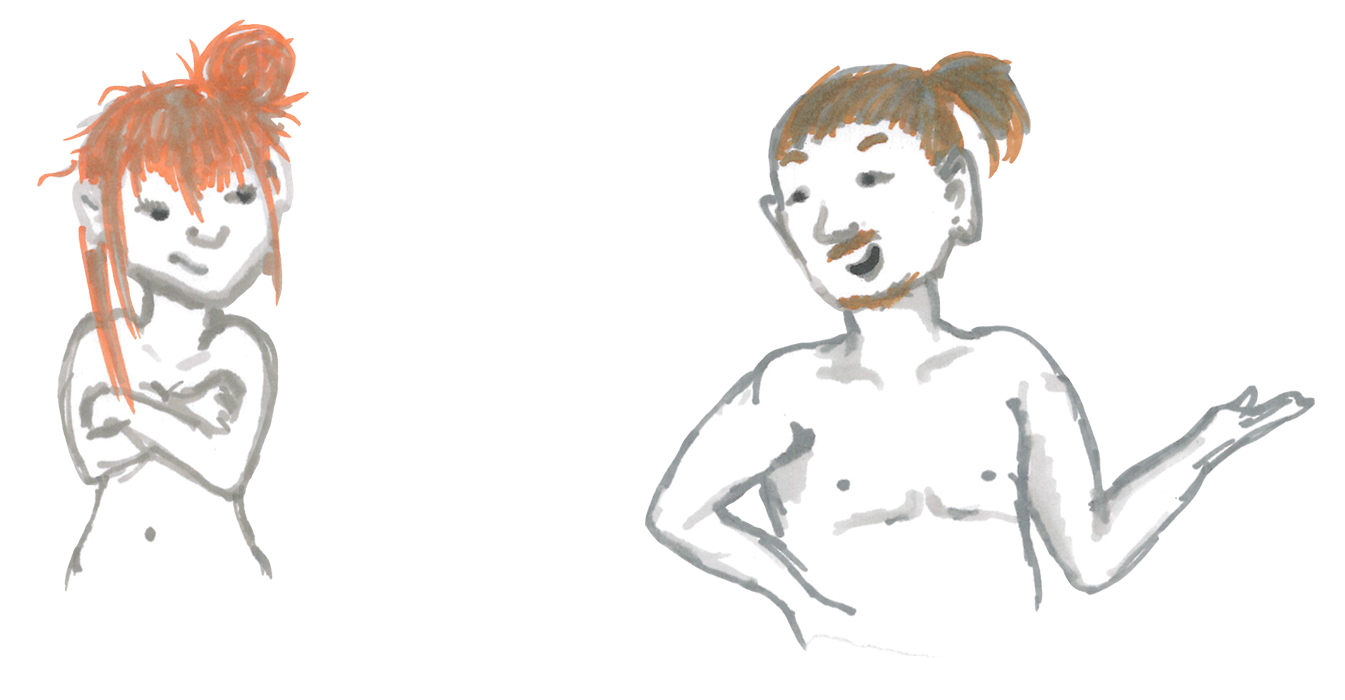
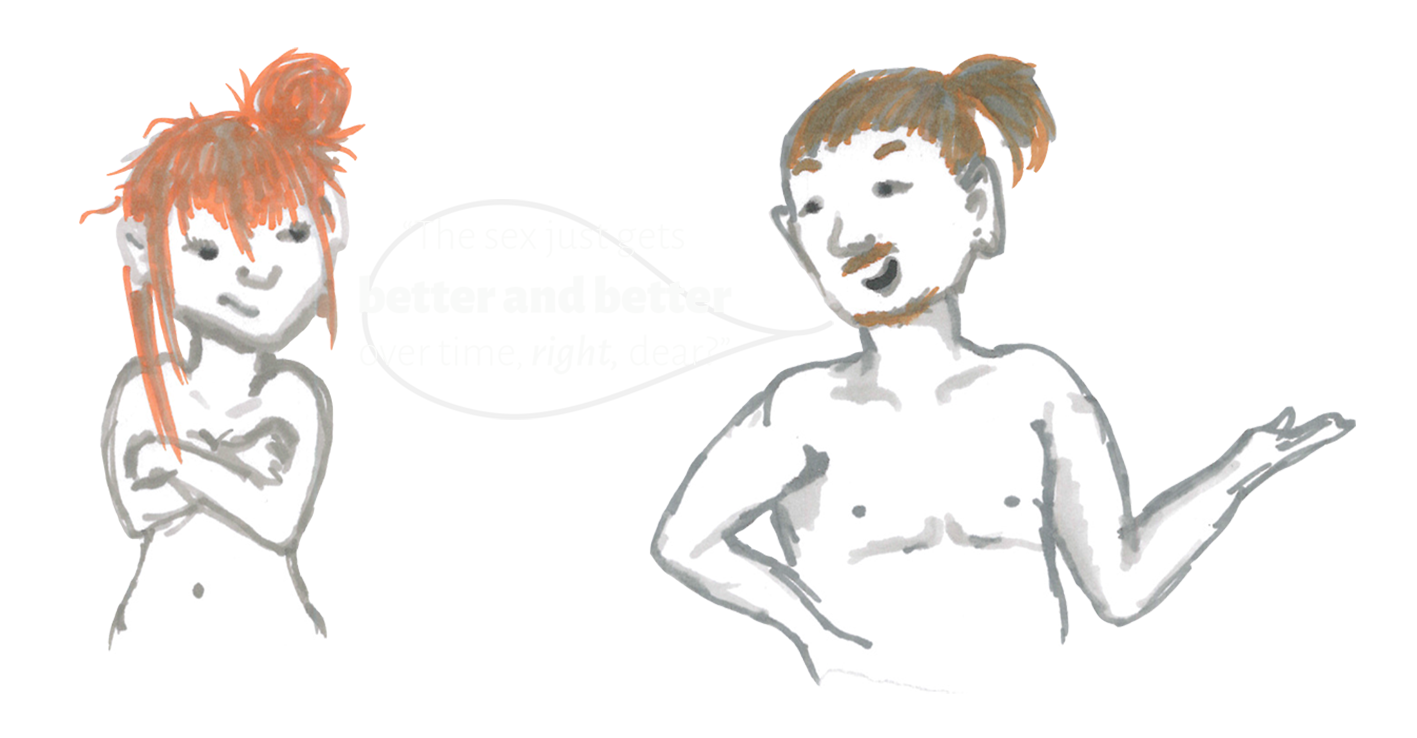
Changing in fonts, color and images.

Changed region(s): [[0.4372, 0.06, 0.9993, 0.93], [0.0312, 0.03, 0.2498, 0.87], [0.1249, 0.78, 0.1561, 0.81]]

diff --git a/index.html b/index.html
@@ -15,6 +15,7 @@
         <!-- <link rel="stylesheet" href="css/normalize.css"> -->
         <link rel="stylesheet" href="css/main.css"> 
         <link rel="stylesheet" href="css/styles.css">
+
         
         <!-- <script src="js/vendor/modernizr-2.6.2.min.js"></script> -->
        
@@ -49,7 +50,7 @@
     <!-------------------------------------------------- Section 2 -------------------------------------------------->
     <section id="second" class="section2" data-speed="2" data-type="background" >    
     
-      <div class="object2" data-type="sprite" data-offsetY="200" data-Xposition="20%" data-speed="3"></div>
+      <div class="object2" data-type="sprite" data-offsetY="300" data-Xposition="60%" data-speed="3"></div>
 
 
       <article>
@@ -162,8 +163,7 @@
       <div class="object8" data-type="sprite" data-offsetY="3650" data-Xposition="50%" data-speed="2"></div>
 
       <article>
-        <h1>IF YOU'VE BEEN TOGETHER <br> SINCE THE DAWN OF TIME</h1>
-        <h2>Does the length of your relationship matter?</h2>
+        <h1>LENGTH OF YOUR <br> RELATIONSHIP MATTER?</h1>
               <p>Section 8 paragraph.</p> 
       </article>
       </section> <!--close #eighth .section8-->  
@@ -216,7 +216,7 @@
       <div class="object10" data-type="sprite" data-offsetY="4550" data-Xposition="90%" data-speed="2"></div>
 
       <article>
-        <h1>TENTH</h1>
+        <h1>RELIGION?</h1>
         <h2>blurp</h2>
       <p>Section 10 paragraph.</p> 
            </article>
@@ -242,7 +242,7 @@
       <div class="object12" data-type="sprite" data-offsetY="5600" data-Xposition="10%" data-speed="2"></div>
 
       <article>
-        <h1>TWELFTH</h1>
+        <h1>SHAME</h1>
         <h2>hop</h2>
               <p>Section 12 paragraph.</p> 
           </article> 
@@ -374,7 +374,7 @@
               <p>Section  paragraph.</p> 
            </article>
       </section> <!--close #twentyfirst .section21s-->  
-      
+
       
 
 

diff --git a/css/styles.css b/css/styles.css
@@ -226,14 +226,14 @@ article{
 
 }
 article h1 { 
-	font-family: Helvetica, Georgia, "Times New Roman", Times, serif;
+	font-family: 'Alegreya Sans SC', sans-serif; font-weight: 800; 
 	letter-spacing: 2px;
 	font-size: 80px;
 
 }
 
 article h2{
-	font-family: Helvetica, Georgia, "Times New Roman", Times, serif;
+	font-family: 'Alegreya Sans SC', sans-serif; font-weight: 100; 
 	letter-spacing: 2px;
 	font-size: 40px;
 
@@ -247,21 +247,22 @@ article h3{
 
 }
 article p { 
-	font-family: Helvetica;
+	font-family: 'Alegreya Sans', sans-serif; font-weight: 100; 
 	font-size: 16px;
 }
 
 #first article,
 #third article,
 #fifth article {
-	color: #fff;
+	color: #F7F0D2;
 } 
 
 #second article,
 #forth article,
 #end article {
-	color: #000;
+	color: #232429;
 } 
+
    
    
 /* =============================================================================
@@ -300,7 +301,7 @@ article p {
 }
 #second .object2 { 
 	/* background-image: url(../img/object2.png); */
-	background-image: url(../img/illu/Satisfaction.png);
+	background-image: url(../img/illu/Satisfaction2.png);
 }
 #third .object3 { 
 	/*background-image: url(../img/illu/Satisfaction.png);*/
